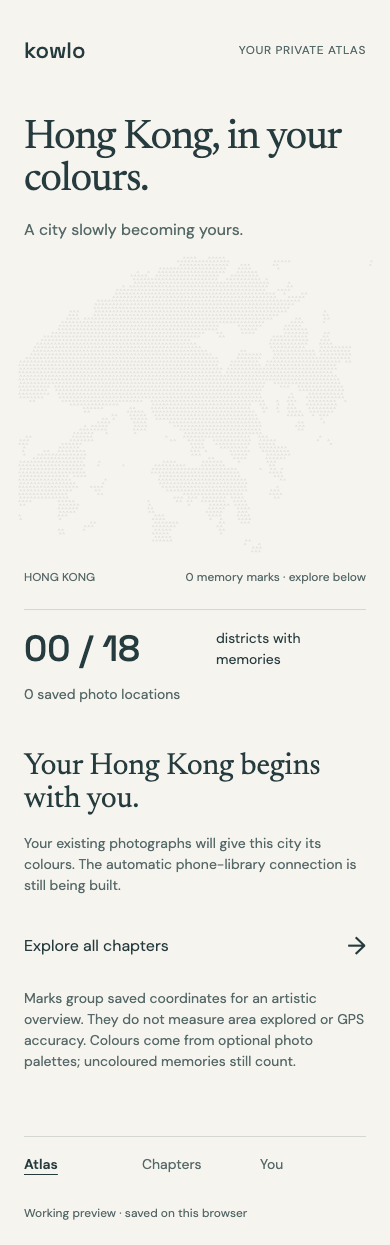
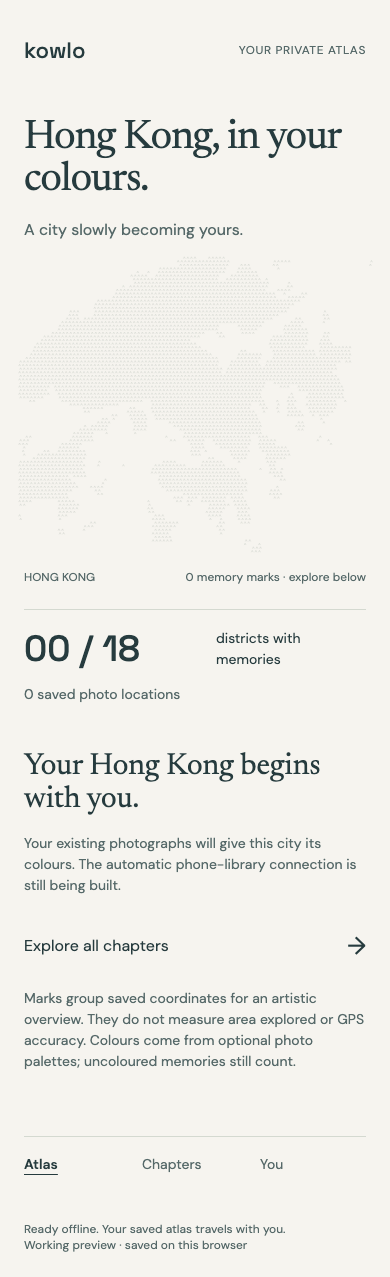
Enable verified offline access to the KOWLO atlas

diff --git a/app/index.html b/app/index.html
@@ -8,6 +8,7 @@
   <link rel="icon" href="/docs/design-assets/kowlo-symbol.svg" type="image/svg+xml">
   <link rel="stylesheet" href="./styles.css">
   <script type="module" src="./atlas.mjs"></script>
+  <script type="module" src="./offline.mjs"></script>
 </head>
 <body>
   <a class="skip" href="#main">Skip to your atlas</a>
@@ -16,7 +17,7 @@
     <main id="main" tabindex="-1"><h1>A city taking shape.</h1><p>Opening your local memories…</p></main>
     <p id="status" role="status" aria-live="polite"></p>
     <nav aria-label="Main navigation"><a href="#atlas">Atlas</a><a href="#chapters">Chapters</a><a href="#you">You</a></nav>
-    <footer>Working preview · saved on this browser</footer>
+    <footer><p id="offline-status" role="status">Preparing offline access…</p>Working preview · saved on this browser</footer>
   </div>
 </body>
 </html>

diff --git a/docs/evidence/atlas-offline.md b/docs/evidence/atlas-offline.md
@@ -1,0 +1,40 @@
+# KOWLO atlas offline verification
+
+Verified 7 September 2026 in Chromium using isolated synthetic journal records. This extends the working `/app/` atlas; it does not establish production installation, native photo-library access or hosted sync.
+
+## Behaviour and cache policy
+
+After a successful connected load, the footer displays **Ready offline. Your saved atlas travels with you.** The atlas can then reopen on the same browser and origin, display saved colours and district chapters, edit notes, export JSON and confirm local deletion without the server.
+
+`app/offline-worker.mjs` prepares an explicit allowlist of 14 static application, font and reference resources. Preparation failure removes the incomplete cache and prevents activation. The journal remains in its existing IndexedDB store; photographs and journal payloads are not added to the service-worker cache. Requests with queries, authorization headers, non-GET methods or paths outside the allowlist bypass that cache. Navigation fragments are removed before allowlist comparison so routes such as `#atlas` can reopen offline.
+
+Updates wait for open atlas tabs to close. The interface asks users to save edits before closing; it does not force a reload or activate an update over an unsaved note. Activation removes only obsolete caches with the atlas prefix and preserves the diagnostic cache and journal. Any release changing an allowlisted resource must also bump the worker's cache version.
+
+This uses the browser's documented [service-worker installation and update lifecycle](https://developer.mozilla.org/en-US/docs/Web/API/Service_Worker_API/Using_Service_Workers) and [`Cache.addAll` failure semantics](https://developer.mozilla.org/en-US/docs/Web/API/Cache/addAll). The runtime checks below establish the application's scoped behaviour.
+
+## Observed verification
+
+[The machine-readable report](atlas/offline-checks.json) records PASS for six scenarios:
+
+- A required font returning 503 leaves no partial cache or false ready state; the connected journal still opens.
+- An actual waiting worker preserves an unsaved note and displays the save-before-closing message.
+- Closing the atlas tab permits the update to activate. The old atlas cache disappears; the separate diagnostic cache and saved journal survive.
+- With the test server confirmed terminated and browser networking disabled, a full route reload restores the coloured atlas, fonts, district count and original GPS. A note edited offline survives reload.
+- Cancelling deletion preserves the location. Confirming deletion removes its mark and district progress after reload. An actual JSON download retains the separately authored note with no observation link.
+- The cache remains exactly the 14 allowlisted resources. Query, private endpoint, POST and authenticated requests cannot be served offline. No page errors occur.
+
+The [atlas regression report](atlas/chromium-checks.json) also passes its seven scenarios, including reference corruption in the actual service-worker cache, navigation, notes, export, deletion and five route types at 320, 390, 768 and 1440 px widths. The existing Node suite passes 46 tests. The live Codex browser panel displayed the ready footer and was used to navigate Atlas → Chapters → Atlas.
+
+![Synthetic atlas reopened with the server stopped](atlas/offline-mobile.png)
+
+## Reproduce
+
+Run `npm ci` and `npm run diagnostic`, then open `http://127.0.0.1:8787/app/index.html`. Wait for **Ready offline** before stopping the server and reopening that same URL. Saved diagnostic records are available only in the same browser and origin.
+
+With Playwright and Chromium installed, run `node scripts/atlas-offline-checks.mjs`. Set `PLAYWRIGHT_MODULE` to an installed Playwright module path if necessary. The driver starts an isolated test server, exercises preparation failure and worker replacement, terminates the server before offline checks, and writes the report and screenshot. It does not read personal photographs or modify production source to simulate an update.
+
+## Limits
+
+Service workers require browser support and a secure context; localhost is supported for this preview. An initial successful connected preparation is required. Browser storage eviction or clearing site data can remove cached resources and local records; this is not a permanent backup guarantee. The footer reports offline readiness rather than inferring network reachability from `navigator.onLine`.
+
+Safari, iOS and physical-device behaviour remain unverified because the available Playwright WebKit runtime was absent. Production installation and the native photo-library flow remain unfinished. Configured editor diagnostics were unavailable; executable syntax and runtime checks supply the scoped evidence. No cloud migration, deployment, public release or remote push was performed for this unit.

diff --git a/README.md b/README.md
@@ -22,7 +22,7 @@ Start with the whole city. Move into a district chapter, then return to the plac
 | --- | --- | --- |
 | A personal memory print | [Working atlas preview](docs/evidence/atlas-preview.md) using deterministic cells from saved GPS and optional palettes | Final design approval and production delivery |
 | Districts become chapters | [Grouping, distinct district counts and colour recalculation after deletion](docs/evidence/district-chapters.md) | Final product flow and device verification |
-| Memories remain under your control | [Local storage and offline behaviour](docs/evidence/offline-shell.md), [export](docs/evidence/journal-geojson-export.md), [explicit deletion](docs/evidence/deletion-confirmation.md) | Production installation and account experience |
+| Memories remain under your control | [Working atlas offline behaviour](docs/evidence/atlas-offline.md), [export](docs/evidence/journal-geojson-export.md), [explicit deletion](docs/evidence/deletion-confirmation.md) | Production installation and account experience |
 | Private sync handles uncertainty | [Identity checks, revision conflicts and interrupted requests](docs/evidence/authenticated-sync-transport.md) | Live hosted authentication and end-to-end sync |
 
 These links record checks performed at specific development stages. They are evidence of those scoped behaviours, not a claim that the complete product has shipped.
@@ -36,6 +36,8 @@ npm run diagnostic
 ```
 
 Open the [working KOWLO atlas](http://127.0.0.1:8787/app/index.html) to explore saved locations, district chapters, notes and local export. It reads the journal saved on this same browser and origin; an empty journal correctly shows an uncoloured map. Automatic phone photo-library connection is still in development. [Preview verification and screenshots](docs/evidence/atlas-preview.md) describe the tested scope.
+
+After the atlas displays **Ready offline**, it can reopen saved chapters, edit notes, export JSON and confirm local deletion without the server, in that same browser and origin. [Offline verification](docs/evidence/atlas-offline.md) records preparation failure, update handling and the static cache boundary.
 
 The [photo-import diagnostic](http://127.0.0.1:8787/experiments/photo-import/index.html) remains available for technical feasibility checks, including **Run 10 synthetic fixture checks**. The Figma presentation remains the proposed design source.
 

diff --git a/docs/evidence/atlas-preview.md b/docs/evidence/atlas-preview.md
@@ -1,6 +1,6 @@
 # KOWLO working atlas preview
 
-Verified 6 September 2026. This is a local interface integration preview, not a completed or installed production application.
+Initially verified 6 September 2026; [atlas offline support](atlas-offline.md) verified 7 September 2026. This is a local interface integration preview, not a completed or installed production application.
 
 ## Implemented experience
 
@@ -48,7 +48,7 @@ With Playwright and its Chromium runtime available, run `node scripts/atlas-brow
 
 ## Remaining boundaries
 
-Automatic phone photo-library scanning, native permission handling, production installation, this preview's offline shell, hosted authentication/sync and physical-device verification are unfinished. The existing diagnostic's offline checks do not establish offline support for this new `/app/` surface.
+Automatic phone photo-library scanning, native permission handling, production installation, hosted authentication/sync and physical-device verification are unfinished. This preview now has separately verified [offline support](atlas-offline.md), including a server-off reload, note editing, JSON download, deletion and worker updates.
 
 WebKit verification was attempted but could not launch because the Playwright WebKit runtime was absent. Safari and iOS behaviour therefore remain unverified. Automatic editor diagnostics were unavailable because the configured language servers were not installed; executable tests, syntax checks and browser checks supply the scoped evidence instead.
 
